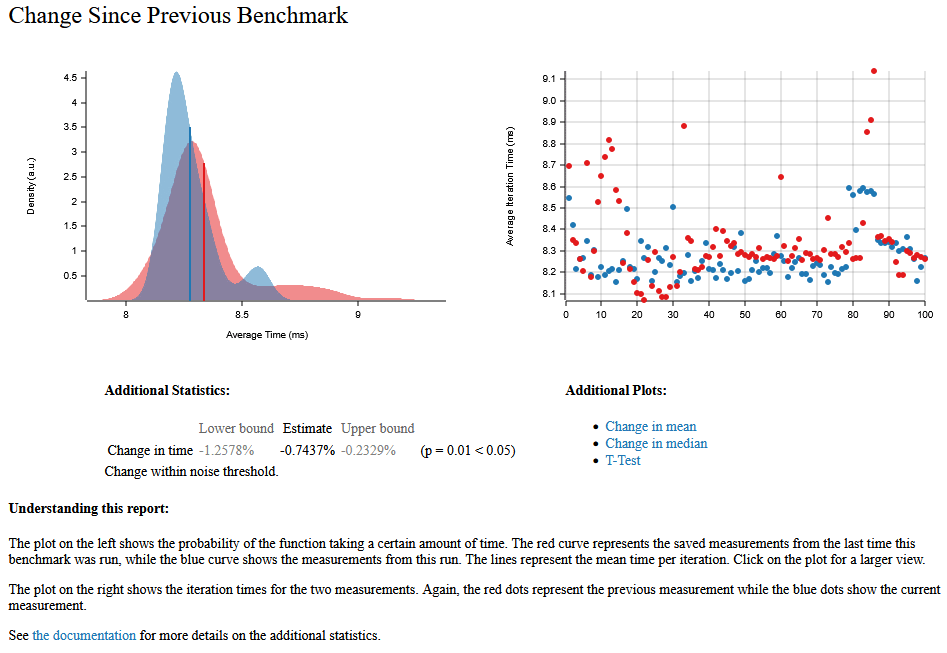
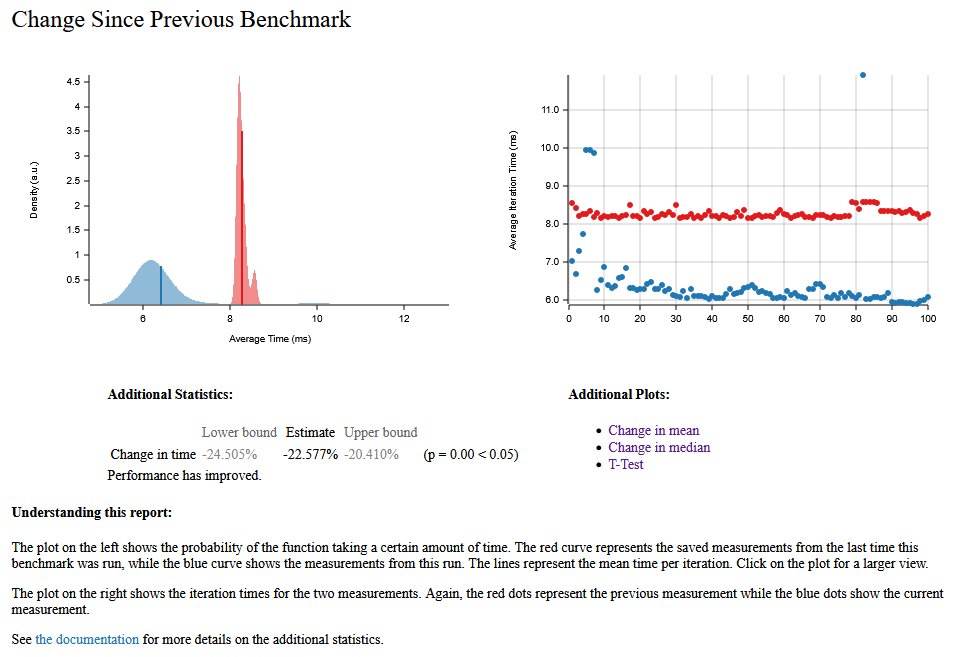
Update README with performance benchmarks for grig_hash function: enhance metrics presentation and highlight performance improvements

diff --git a/README.md b/README.md
@@ -112,15 +112,22 @@ Goal:
 
 ## Performance Benchmarks
 
-Below is the current benchmark for the `grig_hash` function (1024 blocks, 3 rounds):
+The `grig_hash` function has been benchmarked with 1024 blocks and 3 rounds.
 
-![grig_hash performance](assets/grig_hash_results.png)
-![grig_hash performance](assets/grig_hash_results2.png)
+### Current Metrics
+![Performance Metrics](assets/grig_hash_results.png)
 
-| Metric | Result |
-| :--- | :--- |
-| **Median Time** | 8.3369 ms |
-| **Outliers** | 20.00% |
+| Metric | Estimate | Interval (Lower / Upper Bound) |
+| :--- | :--- | :--- |
+| **Mean** | 6.4066 ms | 6.2532 ms / 6.5957 ms |
+| **Median** | 6.1860 ms | 6.1234 ms / 6.2458 ms |
+| **Std. Dev.** | 885.58 µs | 434.12 µs / 1.2541 ms |
+
+### Comparison to Previous Run
+![Comparison](assets/grig_hash_results2.png)
+
+🚀 **Performance has improved significantly!** 
+The current run shows a performance improvement of **-22.577%** ($p = 0.00 < 0.05$) compared to the previous benchmark. 
 
 *Benchmarks were generated using [Criterion.rs](https://github.com/bheisler/criterion.rs).*
 